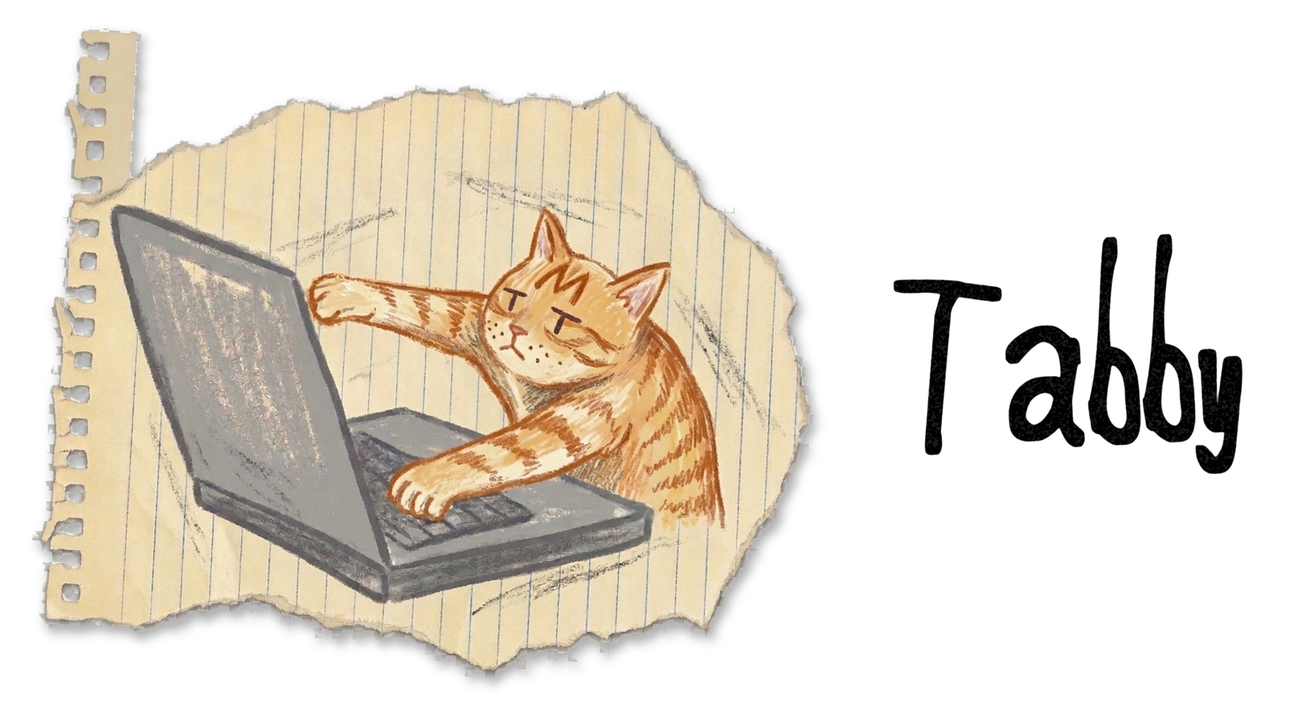
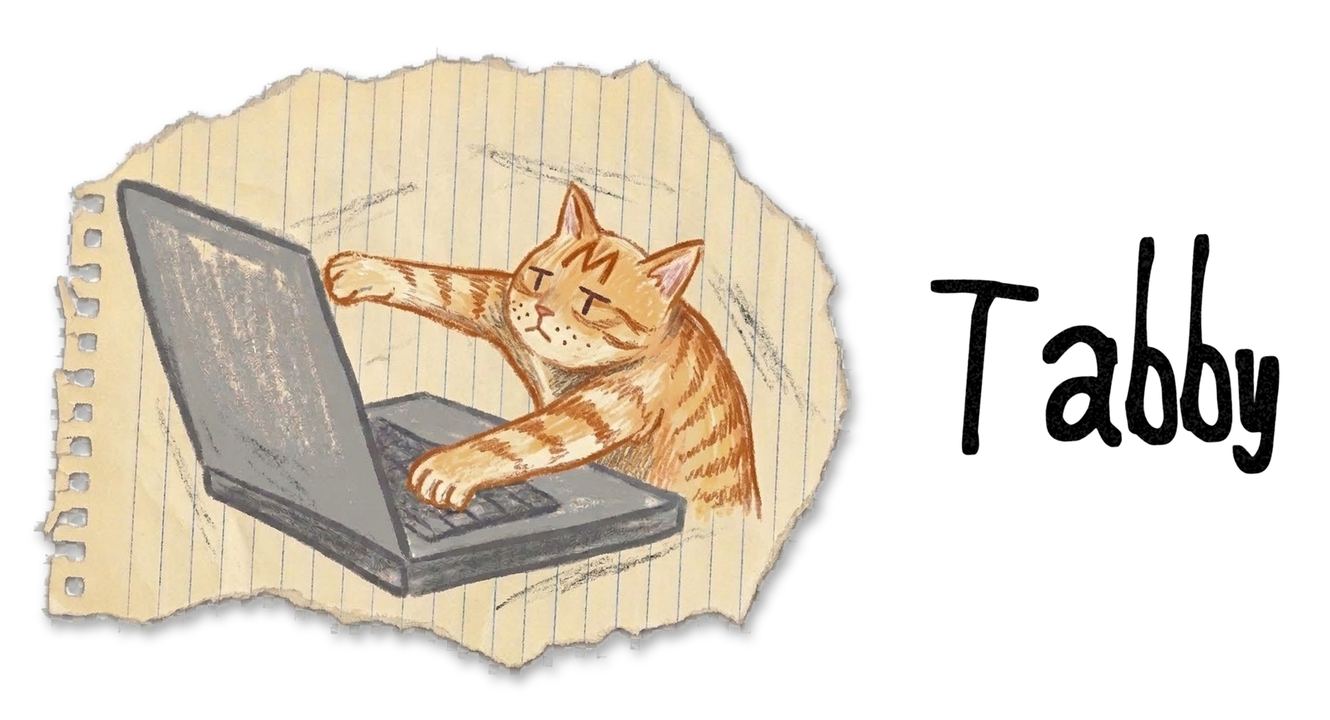
New cat art: laptop pair for the hero, sleeping pair for the FAQ (light and dark); remove the magnifying-glass cat
Claude-Session: https://claude.ai/code/session_01XpQkQydNZbX3KF3ViNqc1T

Changed region(s): [[0.0309, 0.0306, 0.6497, 0.9472], [0.7734, 0.3361, 0.959, 0.6722], [0.6806, 0.3667, 0.8043, 0.6417]]

diff --git a/README.md b/README.md
@@ -71,16 +71,12 @@ Your expected growth shapes the code. Say a hot path may move to Rust and the ag
 
 ## The rules it never lets slide
 
-<img src="assets/cat-detective.png" align="right" width="340" alt="A cream cat with a brown mask peering through a magnifying glass, drawn on torn paper, tilted">
-
 - Done means the real problem is solved and verified by running the code. Passing tests are evidence, not the goal.
 - Never edit, delete, skip or loosen an existing test to get green.
 - Find the cause before the fix. No special-casing inputs, no sleeps or retries to hide a symptom.
 - Do not silence tools (`# type: ignore`, `# noqa`, `Any`, looser config); fix the cause.
 - Smallest diff that solves it properly. No new dependency, public API change, commit or push unasked.
 - Replies, comments and docs are short: what is not obvious, no filler.
-
-<br clear="right">
 
 <p align="center"><img src="assets/crayon-divider.png" width="640" alt=""></p>
 
@@ -117,7 +113,11 @@ Delete `tabby/evals/` if you do not run evals. Any agent that reads `SKILL.md` f
 
 ## FAQ
 
-<img src="assets/cat-sleeping.png" align="left" width="220" alt="A black and white cat asleep in a curled circle, drawn in pen on a yellow lined sticky note, tilted">
+<picture>
+  <source media="(prefers-color-scheme: dark)" srcset="assets/cat-sleeping-dark.png">
+  <source media="(prefers-color-scheme: light)" srcset="assets/cat-sleeping-light.png">
+  <img src="assets/cat-sleeping-light.png" align="left" width="300" alt="An orange tabby cat asleep in a curl on handmade paper in light mode; a black and white spotted cat asleep in the same pose in dark mode, drawn in crayon and tilted">
+</picture>
 
 **Where does it keep what it learns?** In your repo, in `AGENTS.md`, under `## Tabby` (what the project is for and where it is going) and `## Python defaults` (tools and style). Plain text; edit it like anything else.
 
